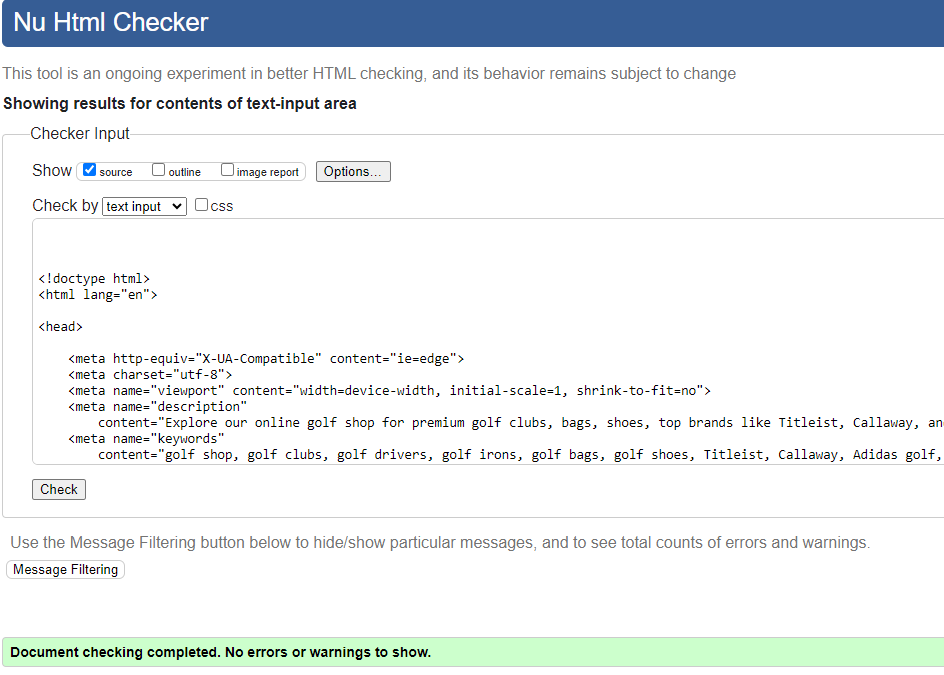
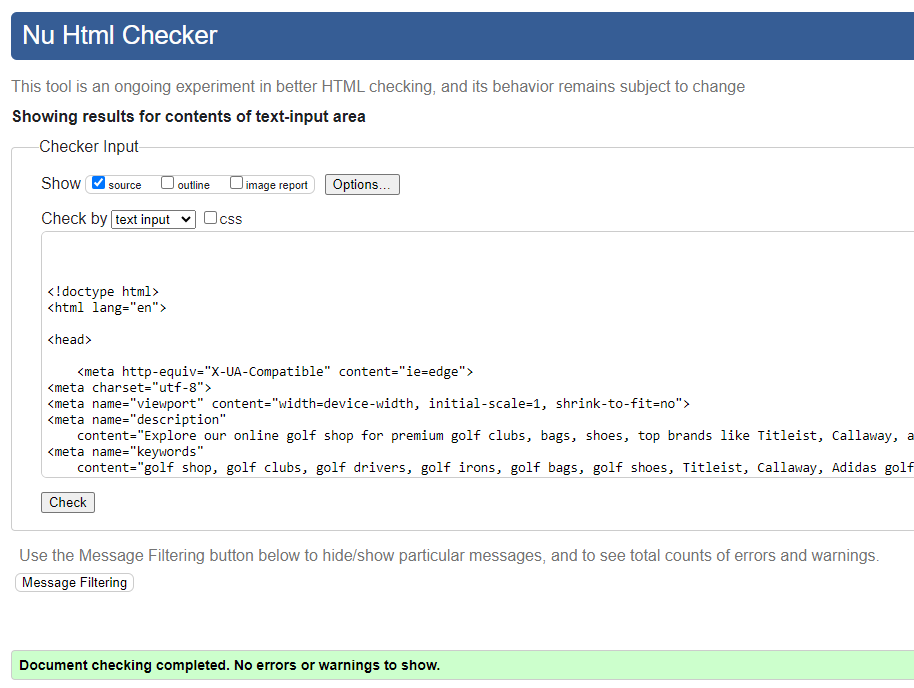
Update product templates html validation screenshots.

diff --git a/products/templates/products/product-detail.html b/products/templates/products/product-detail.html
@@ -47,7 +47,6 @@
                     <a href="{% url 'edit_product' product.id %}">Edit</a> |
                     <a href="#" class="text-danger delete-link" data-product-id="{{ product.id }}">Delete</a>
                 </small>
-                {% include 'products/includes/delete-modal.html' %}
                 {% endif %}
                 <p class="mt-2 mb-0">{{ product.description }}</p>
 

diff --git a/README.md b/README.md
@@ -986,9 +986,13 @@ A few errors found with HTML files, see details below:
 
     ![Signup](/documentation/code_validation/signup-html.png)
 
-- Products
+- Products page
 
     ![Products](/documentation/code_validation/products-html.png)
+
+- Products details page
+
+    ![Product details](/documentation/code_validation/product-details-html.png)
 
 - Drivers page
 
